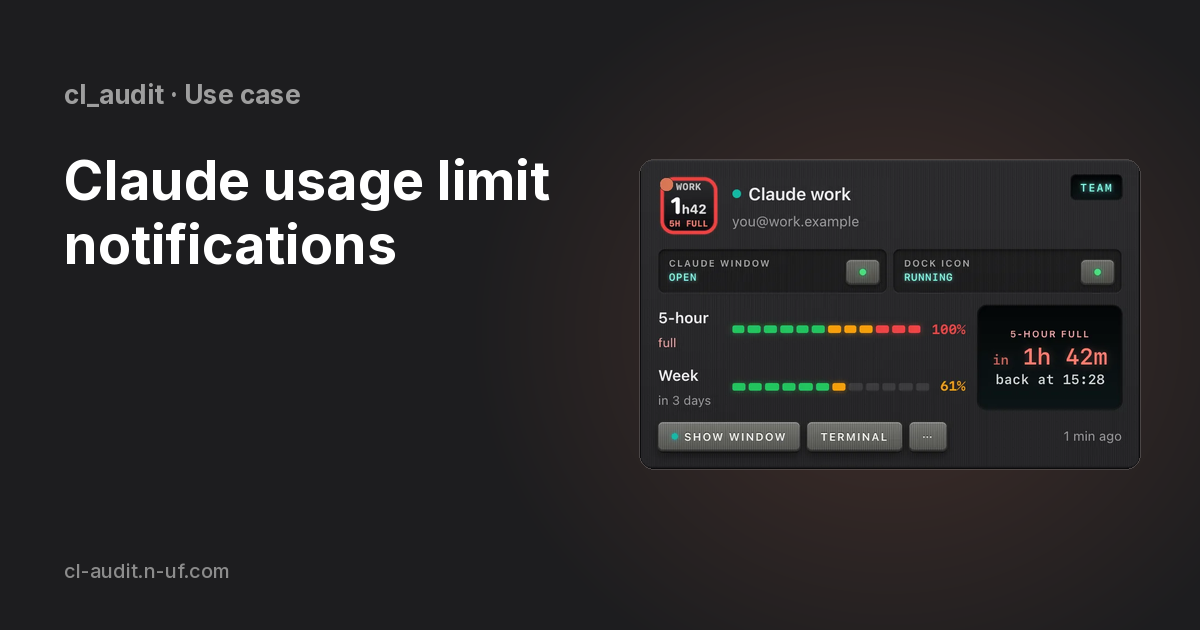
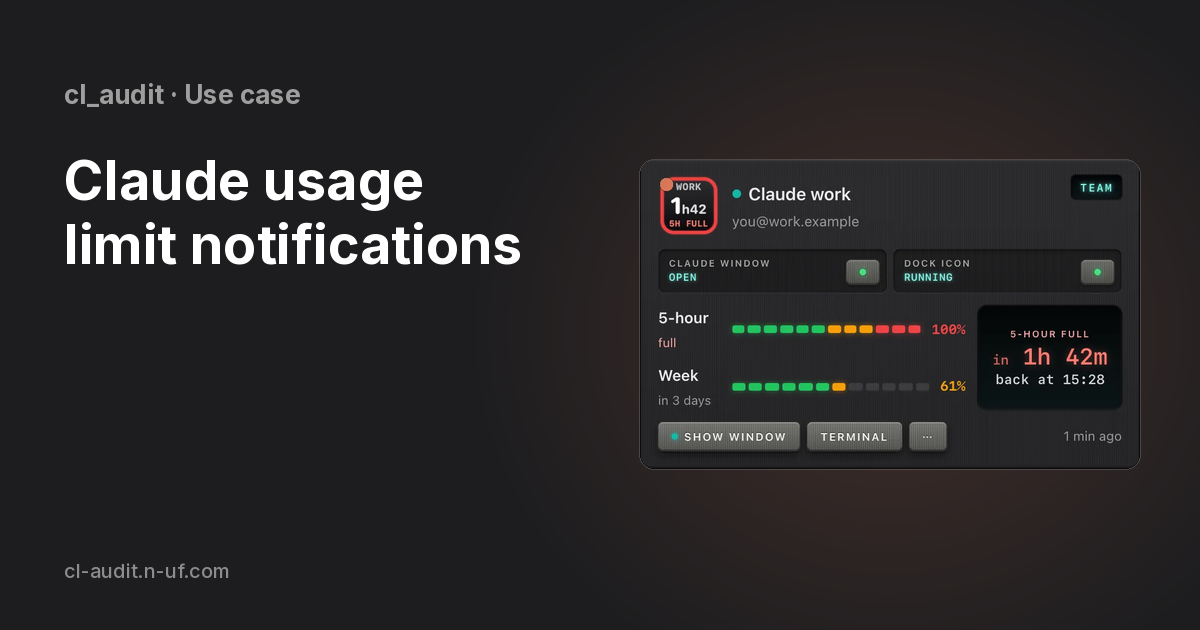
Share images: review fixes (long words, a lone last word; one image per page)
From review of #13: the title shrinks until no line is wider than the column
(CLAUDE_CONFIG_DIR came within 7 px of the picture), a single word is not left
alone on the last line, and a page without an h1 is skipped. Articles use their
share image as the structured-data image too, so og:image and Article image
match; the first-image helper is gone.

Changed region(s): [[0.0617, 0.3317, 0.4317, 0.4222], [0.3392, 0.2413, 0.4625, 0.3317]]

diff --git a/src/data/images.ts b/src/data/images.ts
@@ -20,13 +20,3 @@ export function withImages(html: string): string {
     return `<figure class="shot">${img}${caption ? `<figcaption>${caption}</figcaption>` : ""}</figure>`;
   });
 }
-
-/** The page's first guide image no wider than 2:1, for its structured data (Google wants article images close to
- *  16:9, 4:3 or 1:1, so a banner such as the Dock strip is skipped; with none, the caller uses the share image). */
-export function firstImage(html: string): string | undefined {
-  for (const [, name] of html.matchAll(/src="\/img\/guides\/([^"]+)"/g)) {
-    const size = (sizes as Record<string, { width: number; height: number }>)[name];
-    if (size && size.width / size.height <= 2) return `/img/guides/${name}`;
-  }
-  return undefined;
-}

diff --git a/scripts/render-og-pages.py b/scripts/render-og-pages.py
@@ -37,7 +37,13 @@ def wrap(text, f, width):
             line = trial
         else:
             lines.append(line); line = word
-    return lines + [line]
+    lines.append(line)
+    # no single word alone on the last line ("Mac"): take the word before it along, if that still fits
+    if len(lines) > 1 and " " not in lines[-1] and " " in lines[-2]:
+        head, moved = lines[-2].rsplit(" ", 1)
+        if f.getlength(f"{moved} {lines[-1]}") <= width:
+            lines[-2:] = [head, f"{moved} {lines[-1]}"]
+    return lines
 
 def picture(path, box_w, box_h):
     im = Image.open(path).convert("RGBA")
@@ -50,7 +56,10 @@ def picture(path, box_w, box_h):
 
 for md in sorted(glob.glob(os.path.join(ROOT, "src/content/use-cases/*.md")) + glob.glob(os.path.join(ROOT, "src/content/blog/*.md"))):
     src = open(md, encoding="utf-8").read()
-    h1 = re.search(r'^h1:\s*"?(.*?)"?\s*$', src, re.M).group(1)
+    m = re.search(r'^h1:\s*"?(.*?)"?\s*$', src, re.M)
+    if not m:
+        print("skipped (no h1):", md); continue
+    h1 = m.group(1).replace('\\"', '"')
     shot = re.search(r"\]\(/img/guides/([^ )]+)", src)
     section = os.path.basename(os.path.dirname(md))
     slug = os.path.splitext(os.path.basename(md))[0]
@@ -62,7 +71,8 @@ for md in sorted(glob.glob(os.path.join(ROOT, "src/content/use-cases/*.md")) + g
     while True:
         f = font(size, 700)
         lines = wrap(h1, f, 520)
-        if len(lines) <= 4 or size <= 40:
+        # at most 4 lines, and no line wider than the column (a long word such as CLAUDE_CONFIG_DIR)
+        if (len(lines) <= 4 and max(f.getlength(l) for l in lines) <= 520) or size <= 40:
             break
         size -= 2
     y = 200
